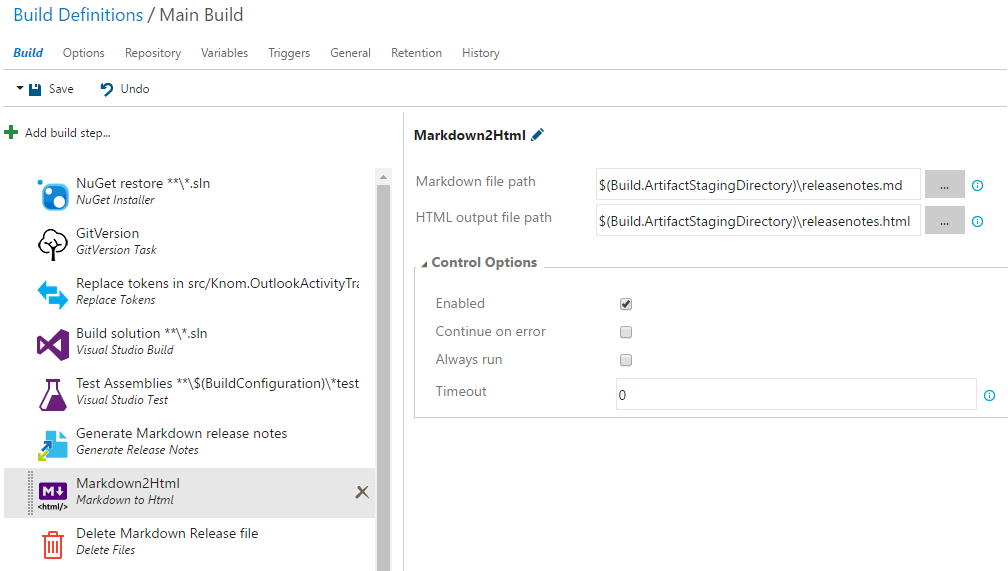
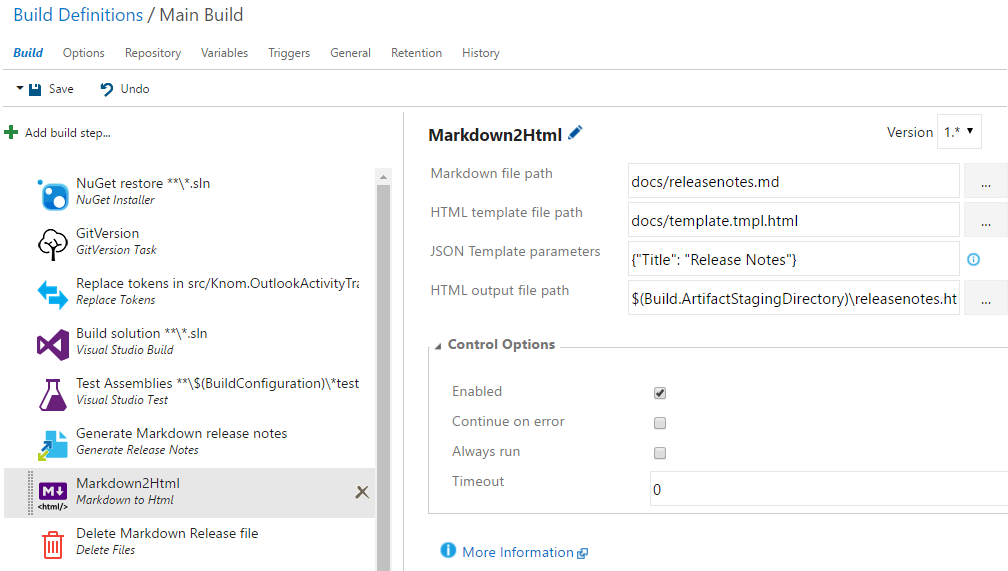
Updated Documentation

diff --git a/README.md b/README.md
@@ -15,6 +15,25 @@ The extension installs the follow tasks:
     * Markdown file path: 
         * The path of the input Markdown file. 
         * It can contain variables such as $(Build.ArtifactStagingDirectory)
+    * HTML template file path: 
+        * The path of the HTML file used as a template. 
+        * The placeholder for the inserted converted Ex-Markdown is 
+                
+                {body|s}
+          Put it wherever you want the converted Markdown to show up in the template.
+
+        * Other custom placeholders for parameters can be used such as
+
+                {title}
+                {author}
+          These parameters need to be passed in as JSON.
+
+    * JSON Template Parameters: 
+        * The parameters to be used instead of placeholders in the template file.
+        * **body** is automatically filled 
+        * The parameters are case-sensitive
+
+                {"title": "Release Notes", "Author": "knom"}
     * HTML output file path:
         * The path of the output HTML file. If the file does not exist, it will be created. 
         * If the file exists, it will be overwritten.
